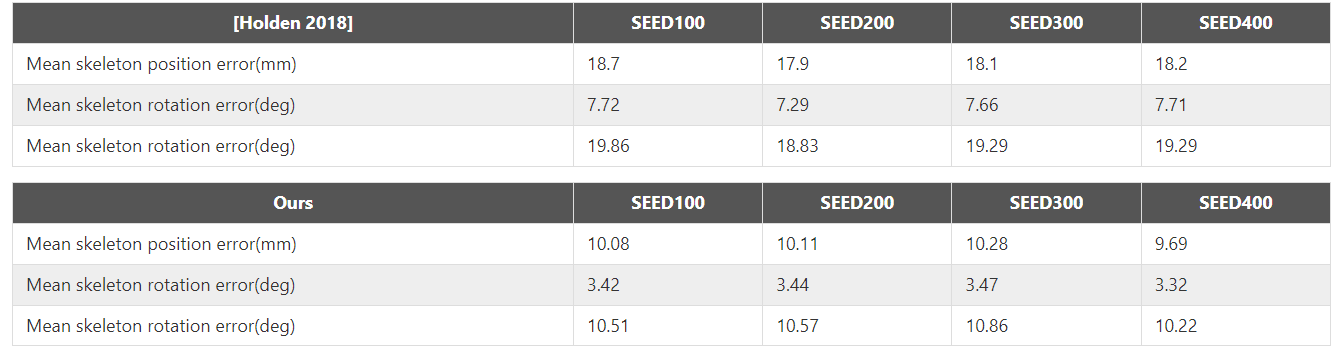
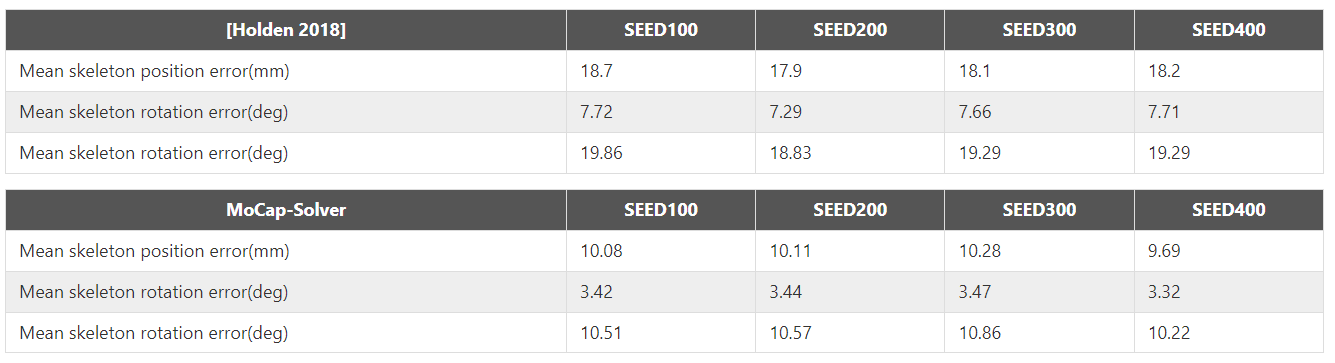
modify some description

diff --git a/README.md b/README.md
@@ -23,7 +23,7 @@ conda install pytorch==1.6.0 torchvision==0.7.0 cudatoolkit=10.1 -c pytorch
 conda install tensorboard==1.15.1
 ```
 
-## 2. Genrate synthetic dataset
+## 2. Generate synthetic dataset
 
 Download the project [SMPLPYTORCH](https://github.com/gulvarol/smplpytorch) with SMPL models downloaded and configurated and put the subfolder "smplpytorch" into the folder "external".
 
@@ -101,6 +101,7 @@ Once prepared mocap dataset, we can train and evaluate the model [Holden 2018] b
 python train_and_evaluate_Holden2018.py
 ```
 
+## 3.3 Pre-trained models
 
 We set the SEED number to 100, 200, 300, 400 respectively, and generated four different datasets. We trained MoCap-Solver and [Holden 2018] on these four datasets and evaluated the errors on the test dataset, the evaluation result is showed on the table.
 
